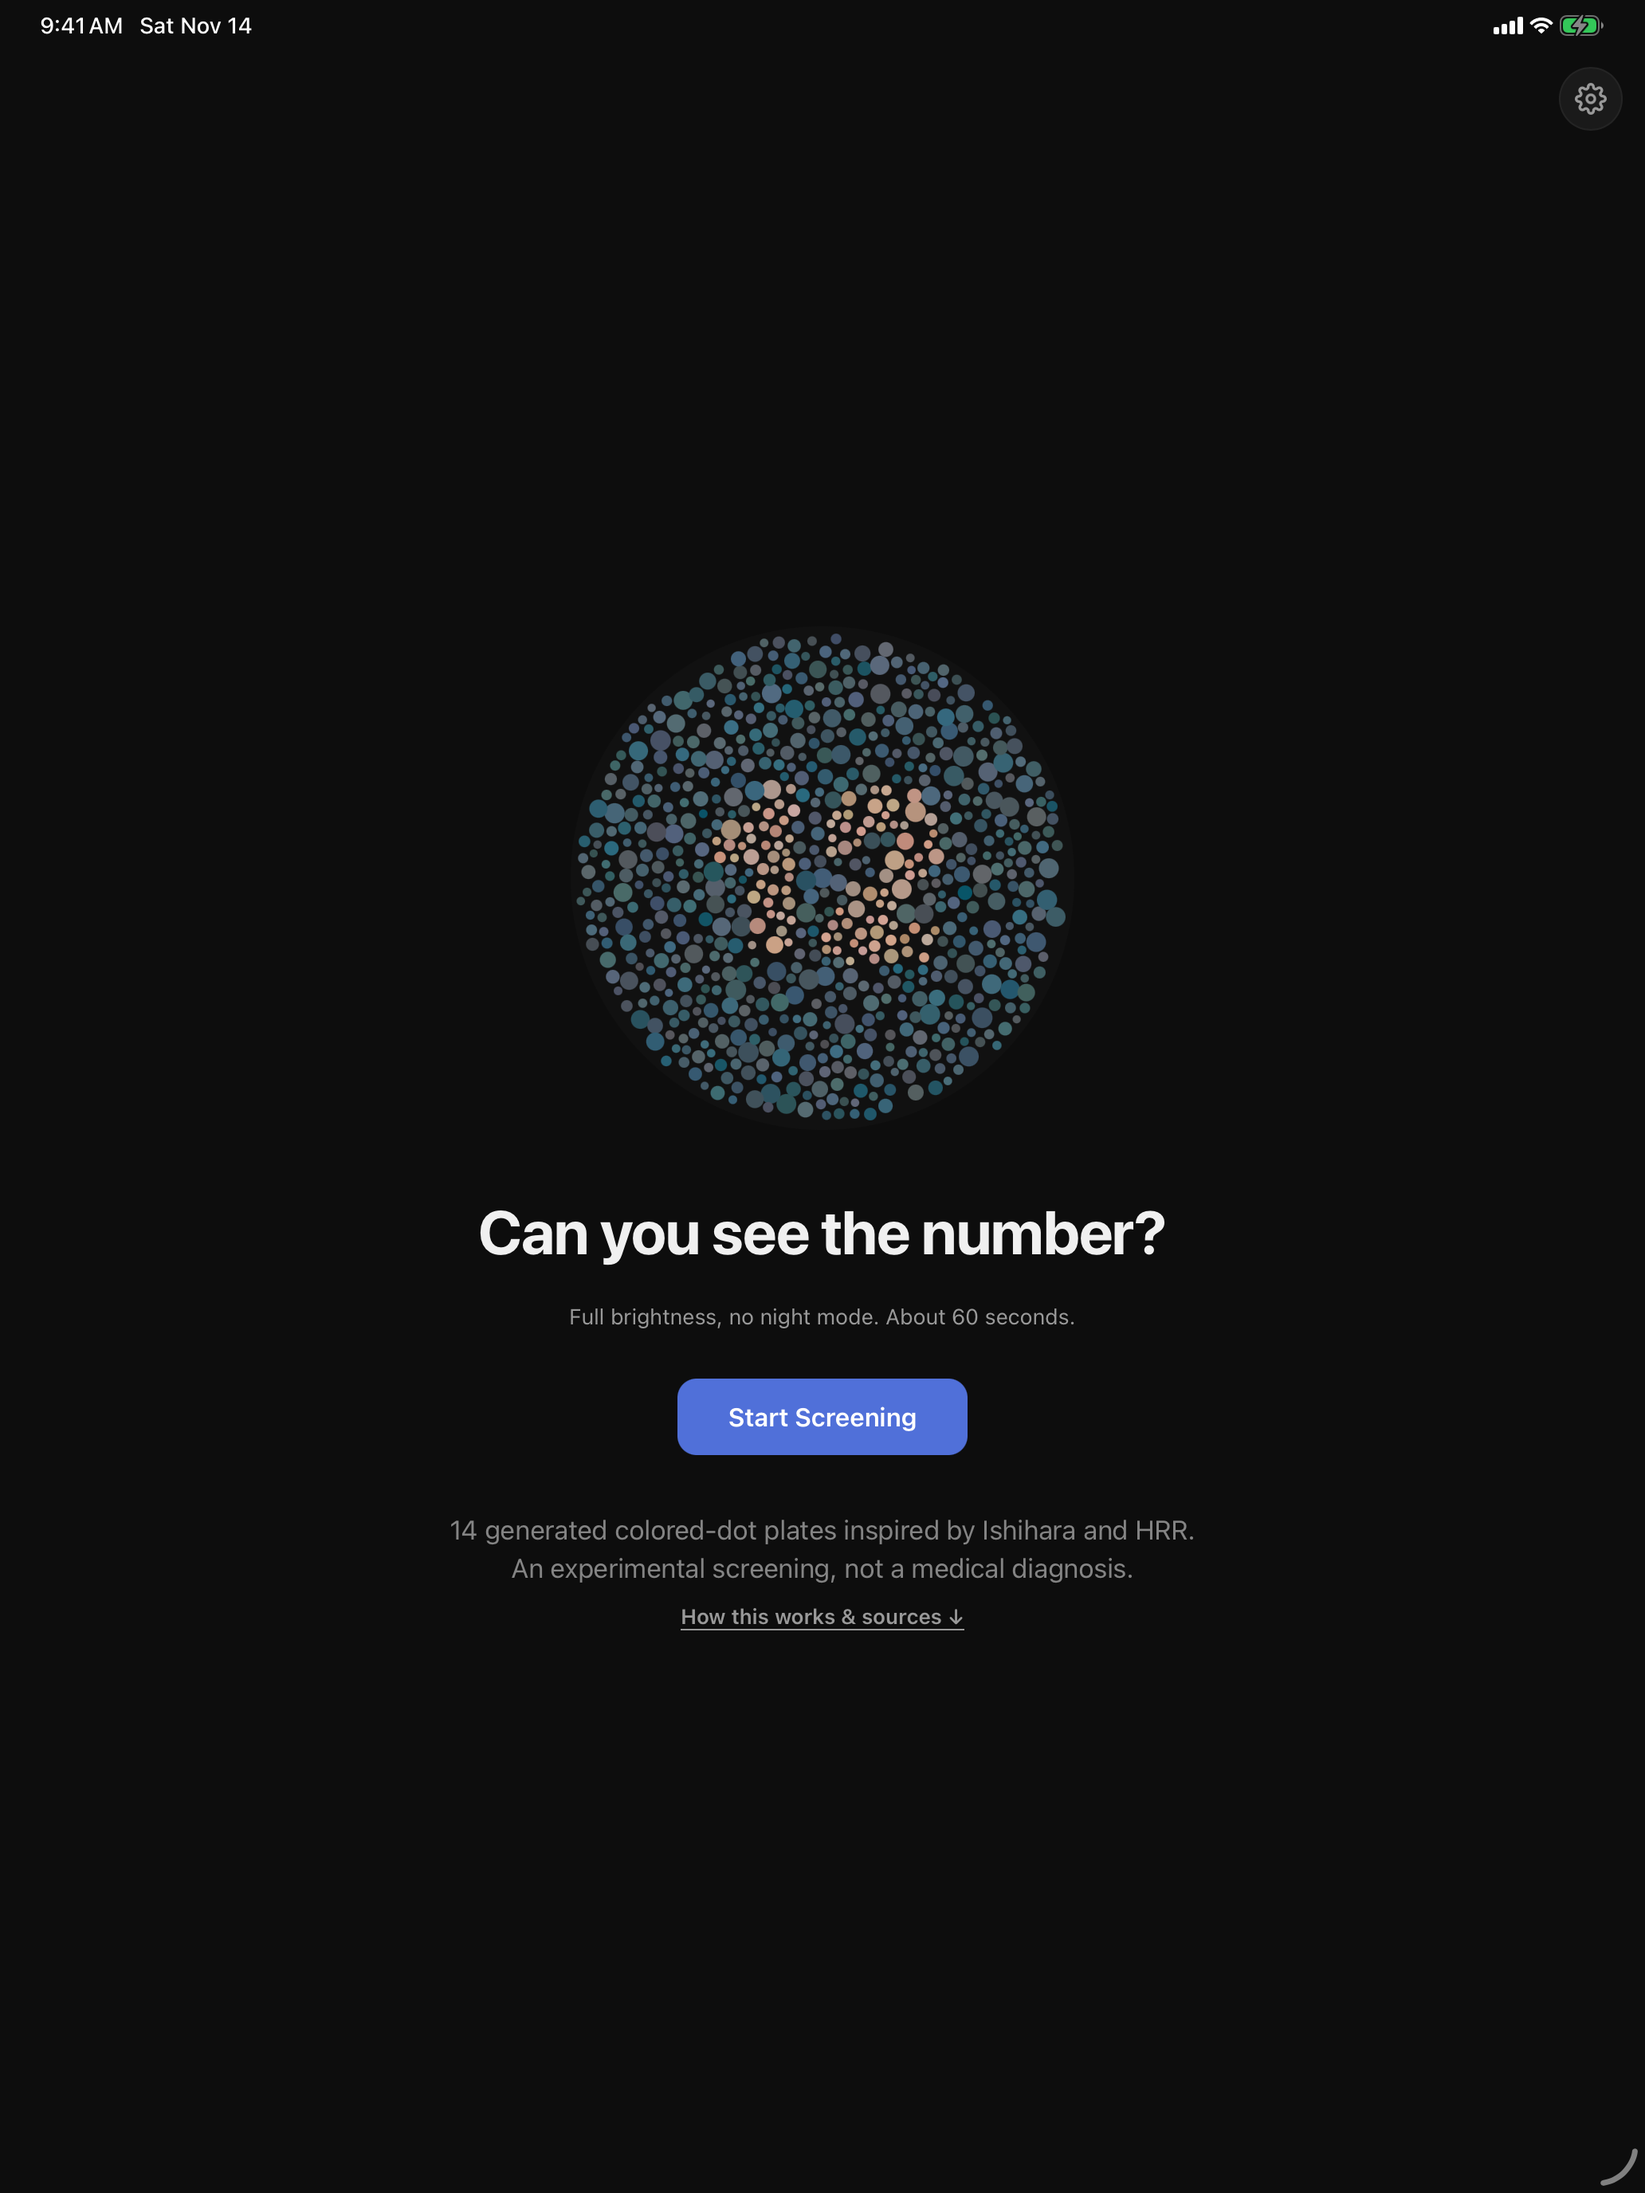
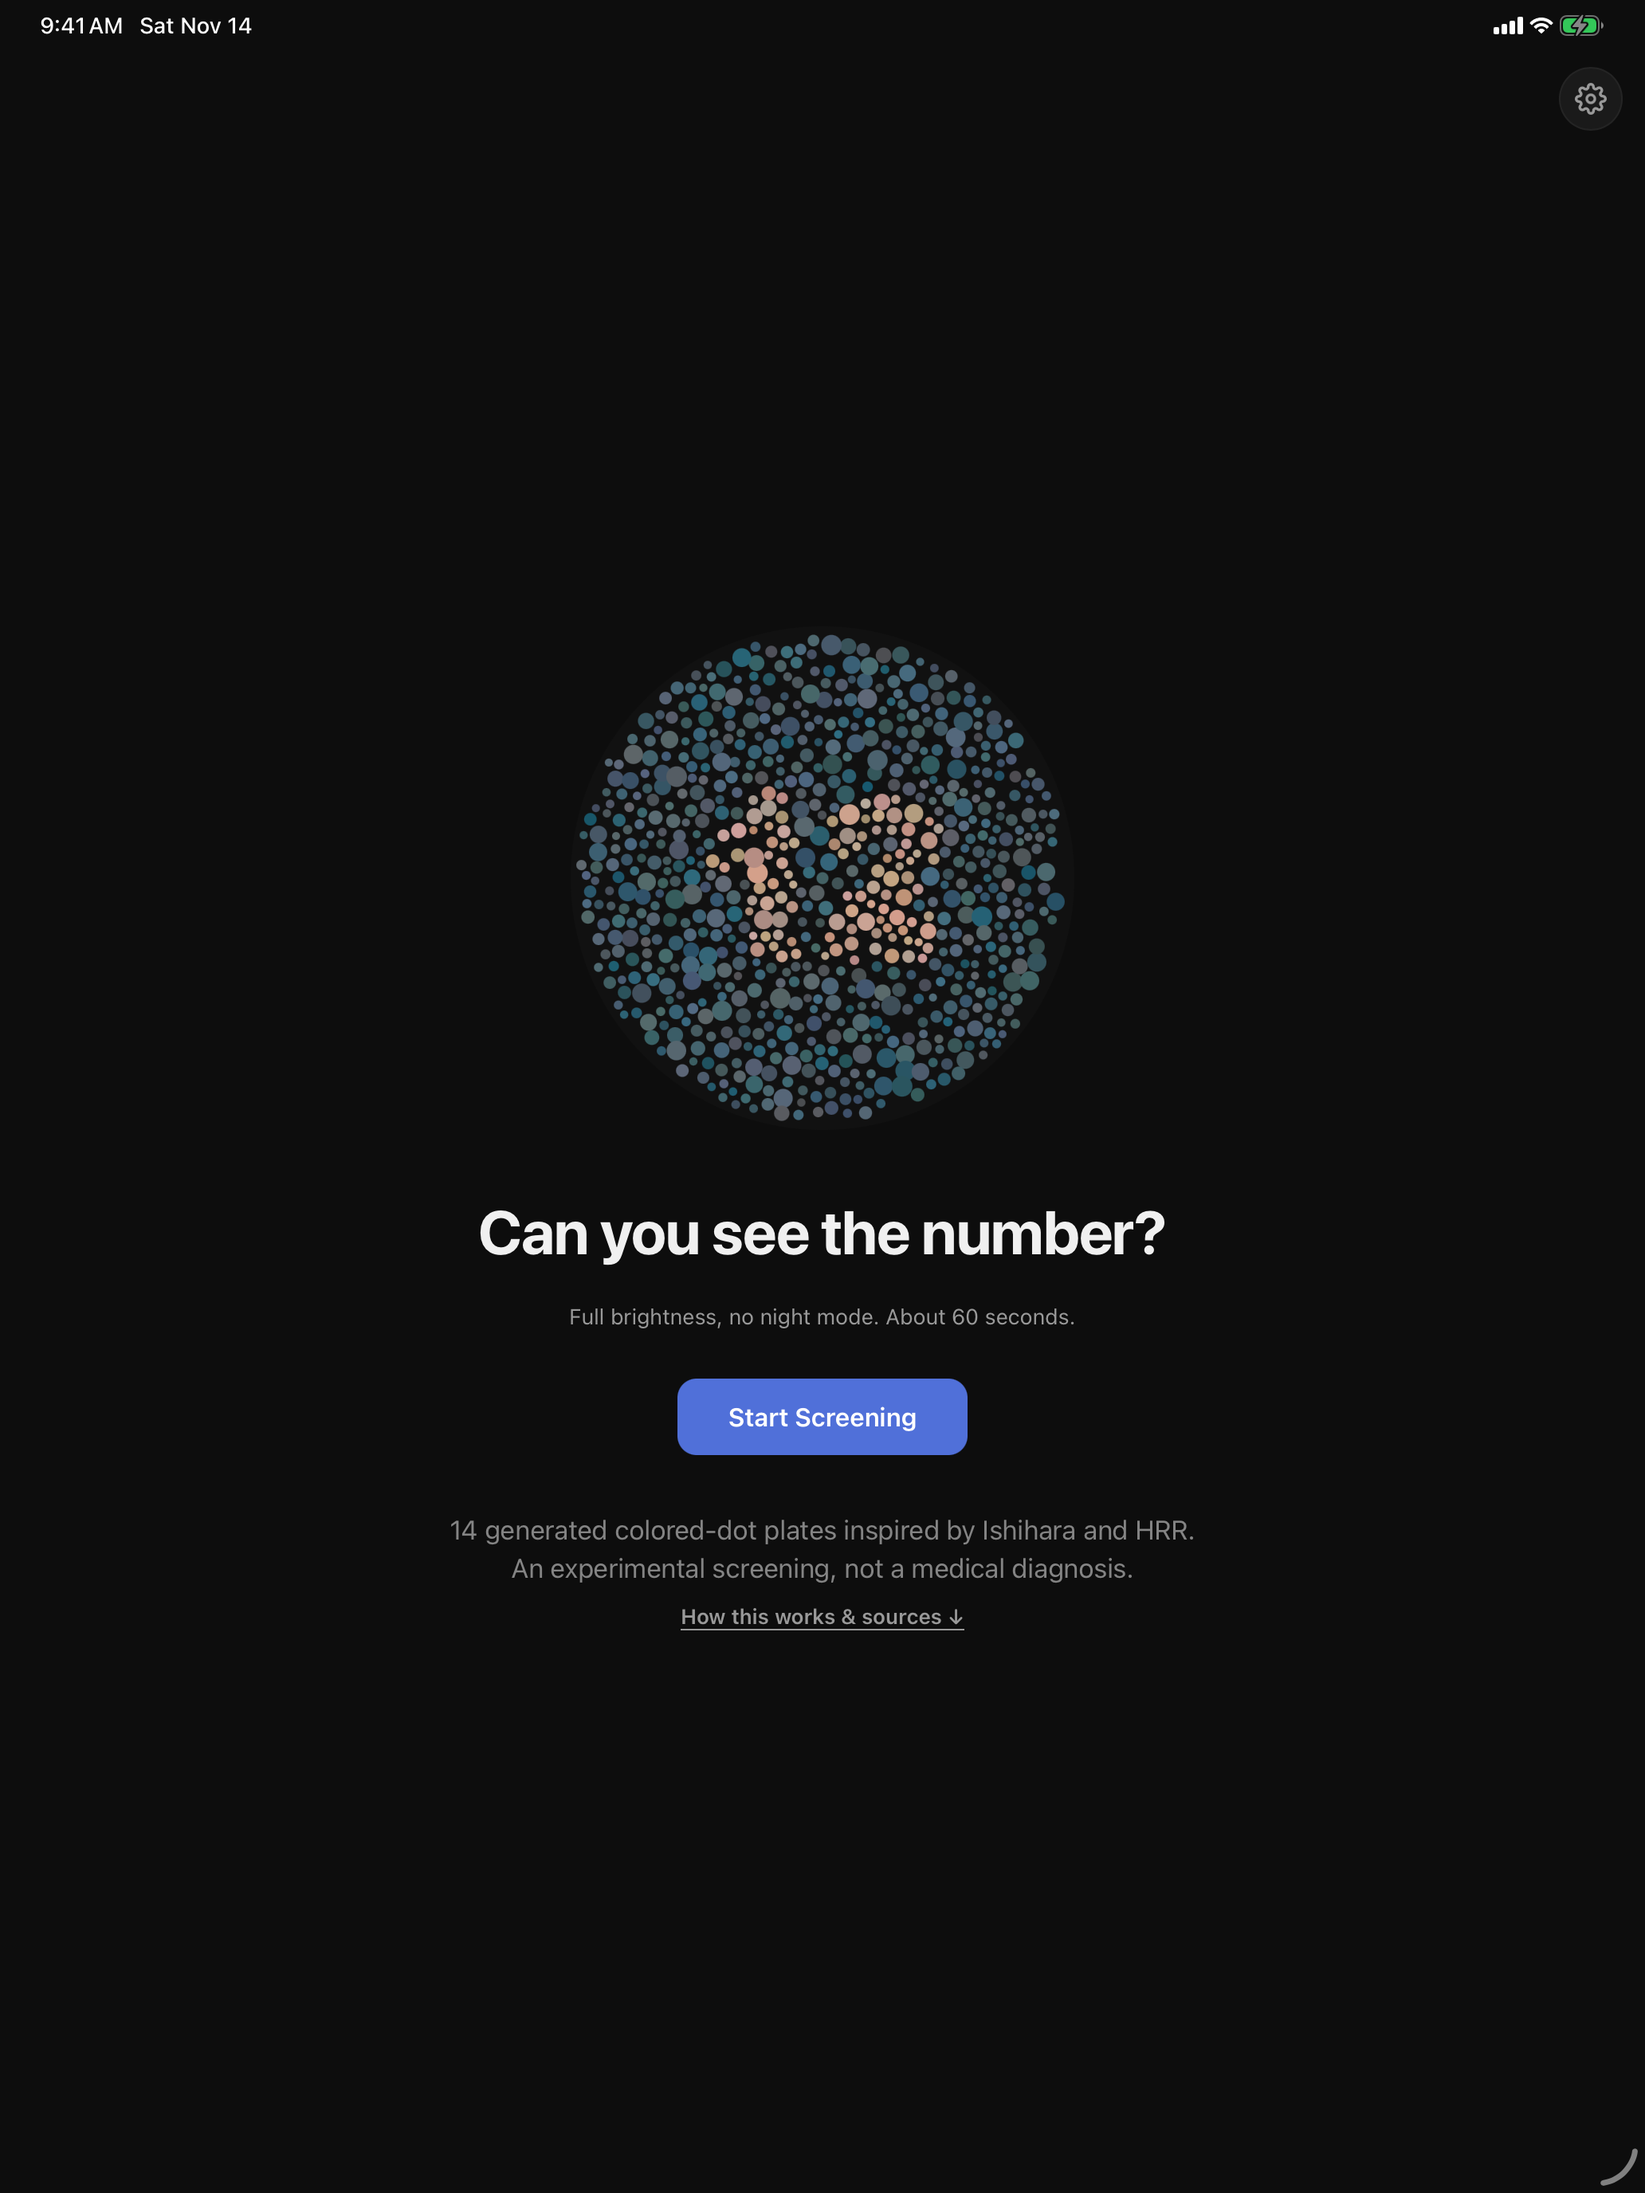
Results text: drop the classifier wording
- Strong Red-Green description: 'You missed both red-type and green-type
  plates' instead of 'plates from both red-type and green-type classifier
  sets'; the next clause now names people as its subject.
- Red-Green description: 'The other plates' instead of 'The classifier
  plates'.
- Plate review labels: 'Red-type' and 'Green-type' instead of 'Protan
  classifier' and 'Deutan classifier'.
- Store screenshots recaptured; the results one shows the first sentence.

Changed region(s): [[0.3411, 0.2812, 0.6512, 0.5312]]

diff --git a/index.html b/index.html
@@ -1689,7 +1689,7 @@
             if (protanOnlyFailed >= 1 && deutanOnlyFailed >= 1 &&
                 (protanOnlyFailed + deutanOnlyFailed >= 3 || rgFailed >= 1)) {
                 return result('red-green-mixed', 'Strong Red-Green Color Difference', 'badge-cvd',
-                    'You missed plates from both red-type and green-type classifier sets — unusual, since each typically passes one and fails the other. Your pattern fits a strong red-green difference where overall contrast cues are also reduced, or a less-common color vision pattern. ' + totalRGFails + ' of ' + (c.rgScreen.total + c.protanOnly.total + c.deutanOnly.total) + ' red-green plates were missed.', true);
+                    'You missed both red-type and green-type plates — unusual, since people typically pass one kind and miss the other. Your pattern fits a strong red-green difference where overall contrast cues are also reduced, or a less-common color vision pattern. ' + totalRGFails + ' of ' + (c.rgScreen.total + c.protanOnly.total + c.deutanOnly.total) + ' red-green plates were missed.', true);
             }
 
             // 6. Generic red-green CVD
@@ -1697,7 +1697,7 @@
                 return result('red-green',
                     'Likely Red-Green Color Difference',
                     'badge-cvd',
-                    'You missed ' + rgFailed + ' of ' + c.rgScreen.total + ' general red-green plates. The classifier plates did not point clearly to the red-type or green-type subtype, so which kind is uncertain. About 8% of men and 0.5% of women have some form of red-green color vision difference.', true);
+                    'You missed ' + rgFailed + ' of ' + c.rgScreen.total + ' general red-green plates. The other plates did not point clearly to the red-type or green-type subtype, so which kind is uncertain. About 8% of men and 0.5% of women have some form of red-green color vision difference.', true);
             }
 
             // 7. Tritan/blue-yellow
@@ -1855,8 +1855,8 @@
                 if (testsArr.length === 0)                                          testName = 'Control';
                 else if (testsArr.length === 2 && testsArr.indexOf('protan') >= 0
                          && testsArr.indexOf('deutan') >= 0)                        testName = 'Red-green';
-                else if (testsArr.length === 1 && testsArr[0] === 'protan')         testName = 'Protan classifier';
-                else if (testsArr.length === 1 && testsArr[0] === 'deutan')         testName = 'Deutan classifier';
+                else if (testsArr.length === 1 && testsArr[0] === 'protan')         testName = 'Red-type';
+                else if (testsArr.length === 1 && testsArr[0] === 'deutan')         testName = 'Green-type';
                 else if (testsArr.length === 1 && testsArr[0] === 'tritan')         testName = 'Blue-yellow';
                 else                                                                testName = testsArr.join('+');
                 label.textContent = 'Plate ' + (i + 1) + ' \u00b7 ' + testName;
